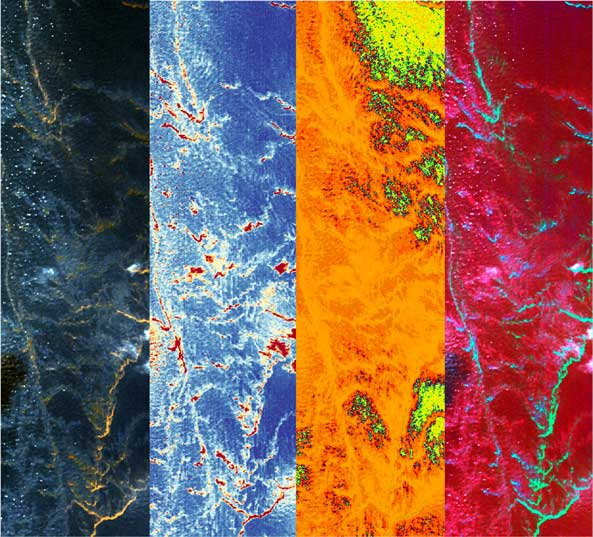
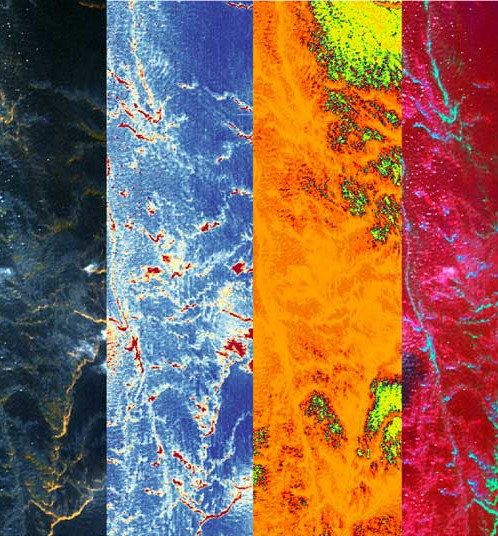
images transformed

diff --git a/publications.html b/publications.html
@@ -251,21 +251,21 @@
 </p>
 
 
-<p id="ChaudhuriBanerjeeBhattacharyaDatcu2021Attention">
-	<a href="https://ieeexplore.ieee.org/document/9526616/" target="_blank">
+<p id="DeyChaudhuriBhogapurapu2021Synergistic">
+	<a href="https://ieeexplore.ieee.org/stamp/stamp.jsp?arnumber=9511232" target="_blank">
 		<span class="image left">
-			<img src="Images/neuron_connection.jpg" title="Synergistic Use of TanDEM-X and Landsat-8 Data for Crop-type Classification and Monitoring" alt="Synergistic Use of TanDEM-X and Landsat-8 Data for Crop-type Classification and Monitoring" style="max-width: 120px">
+			<img src="Images/crop-classify.jpg" title="Synergistic Use of TanDEM-X and Landsat-8 Data for Crop-type Classification and Monitoring" alt="Synergistic Use of TanDEM-X and Landsat-8 Data for Crop-type Classification and Monitoring" style="max-width: 120px">
 		</span>
 	</a>
 	<h4>
 		Synergistic Use of TanDEM-X and Landsat-8 Data for Crop-type Classification and Monitoring
-		 <a href="publications.html#ChaudhuriBanerjeeBhattacharyaDatcu2021Attention"><span class="image right"><img src="Images/link-to-here.png" title="Link to this paper" alt="Link to this paper" style="max-width: 15px"></span></a>
+		 <a href="publications.html#DeyChaudhuriBhogapurapu2021Synergistic"><span class="image right"><img src="Images/link-to-here.png" title="Link to this paper" alt="Link to this paper" style="max-width: 15px"></span></a>
 	</h4>
 	<blockquote>
-		Graph convolution networks (GCNs) are useful in remote sensing (RS) image retrieval. It is found to be effective because, in a graph representation, the relative geometrical interactions between different regions (or segments) are appropriately captured, along with their region-wise features in their region adjacency graphs. Also, the attention mechanism has often been applied to the nodes to highlight the essential features in each node. In this regard, a significant amount of high-frequency information is missed since each image segment is effectively summarized within a single node. To account for this and increase the learning capacity, we propose to attend over the edge/adjacency matrix to highlight the interactions among meaningful regions that contribute to supervised learning from images. We exploit this novel edge attention mechanism together with node attention to highlight essential image context by allowing more importance to the meaningful neighboring regions that highlight a relevant node. We implement the proposed context-attended GCN framework for image retrieval on the benchmarked UC-Merced and the PatternNet datasets. We observe a notable improvement in the results compared to the state of the art.
+		Classification of crop types using Earth Observation (EO) data is a challenging task. The challenge increases many folds when we have diverse crops within a resolution cell. In this regard, optical and Synthetic Aperture Radar (SAR) data provide complementary information to characterize a target. Therefore, we propose to leverage the synergy between multispectral and Synthetic Aperture Radar (SAR) data for crop classification. We aim to use the newly developed model-free three-component scattering power components to quantify changes in scattering mechanisms at different phenological stages. By incorporating interferometric coherence information, we consider the morphological characteristics of the crops that are not available with only polarimetric information. We also utilize the reflectance values from Landsat-8 spectral bands as complementary biochemical information of crops. The classification accuracy is enhanced by using these two pieces of information combined using a neural network-based architecture with an attention mechanism. We utilize the time series dual co-polarimetric (i.e., HH–VV) TanDEM-X SAR data and the multispectral Landsat-8 data acquired over an agricultural area in Seville, Spain. The use of the proposed attention mechanism for fusing SAR and optical data shows a significant improvement in classification accuracy by 6.0% to 9.0% as compared to the sole use of either the optical or SAR data. Besides, we also demonstrate that the utilization of single-pass interferometric coherence maps in the fusion framework enhances the overall classification accuracy by ≈3.0%. Therefore, the proposed synergistic approach will facilitate accurate and robust crop mapping with high-resolution EO data at larger scales.
 	</blockquote>
-	Ushasi Chaudhuri, Biplab Banerjee, Avik Bhattacharya, Mihai Datcu<br>
-	<i><b>IEEE Geoscience and Remote Sensing Letters (GRSL), 2021</b></i> <br>  [<a href="https://elib.dlr.de/144951/1/Attention-Driven_Graph_Convolution_Network_for_Remote_Sensing_Image_Retrieval.pdf" target="_blank">Paper</a>] [<a href="https://scholar.googleusercontent.com/scholar.bib?q=info:wJZKnvJvpPcJ:scholar.google.com/&output=citation&scisdr=ClEViJ73EKHguV014Uk:AFWwaeYAAAAAZ-Yz-Ulk_MXiyAmPRSBAuuHtG0Y&scisig=AFWwaeYAAAAAZ-Yz-ZoAmXS_Mw7ODheWwa2iErM&scisf=4&ct=citation&cd=-1&hl=en" target="_blank">BibTex</a>]
+	Subhadip Dey, Ushasi Chaudhuri, Narayana Bhogapurapu, Juan Lopez Sanchez, Biplab Banerjee, Avik Bhattacharya, Dipankar Mandal, Yalamanchili S. Rao<br>
+	<i><b>IEEE Journal of Selected Topics in Applied Earth Observations and Remote Sensing (JSTARS), 2021</b></i> <br>  [<a href="https://ieeexplore.ieee.org/stamp/stamp.jsp?arnumber=9511232" target="_blank">Paper</a>] [<a href="https://scholar.googleusercontent.com/scholar.bib?q=info:8FxFx45d_I0J:scholar.google.com/&output=citation&scisdr=ClEViJ73EKHguV0xd78:AFWwaeYAAAAAZ-Y3b79hJf9vgsJ1UVX7itDGQBI&scisig=AFWwaeYAAAAAZ-Y3b82ZtqfXx5y4xpT1i8PSIfk&scisf=4&ct=citation&cd=-1&hl=en" target="_blank">BibTex</a>]
 </p>
 <!--
 
